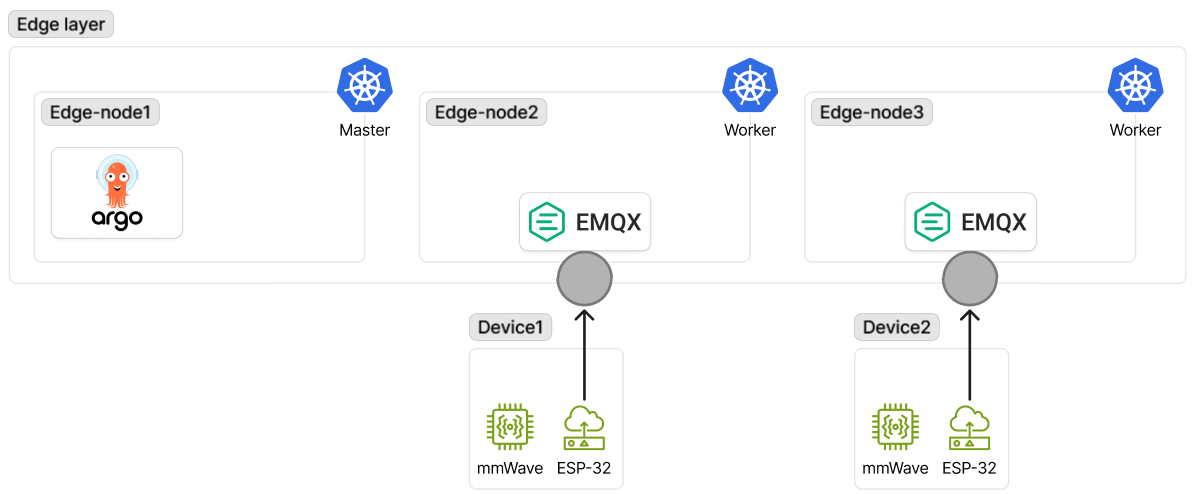
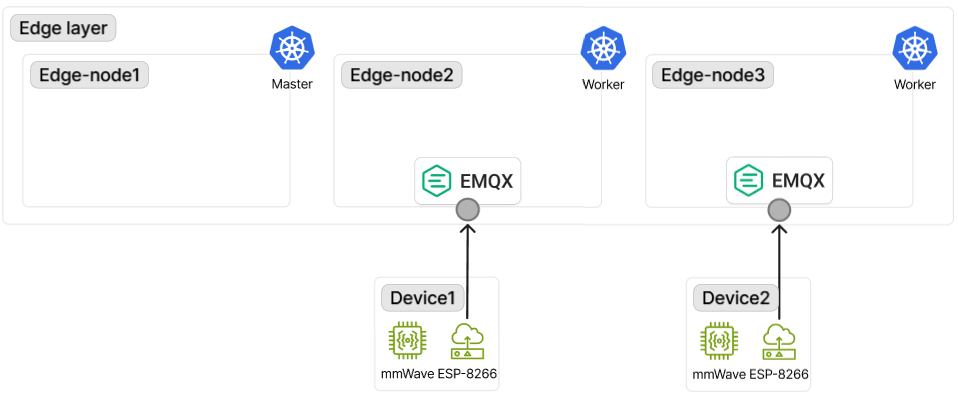
docs: change architecture images

diff --git a/docs/architecture/storage.md b/docs/architecture/storage.md
@@ -5,7 +5,7 @@
 
 ## 다이어그램
 
-![storage architecture](images/storage-architecture.png) <!-- TODO: InfluxDB e-s1 K3s Pod + 외장 SSD(디렉토리 bind 분리) + Edge Gateway write 흐름. raw timeseries(InfluxDB) vs 변경 이벤트(DynamoDB) 역할 분리 표현 -->
+![storage architecture](images/storage-architecture.png)
 
 ## 결정 사항
 